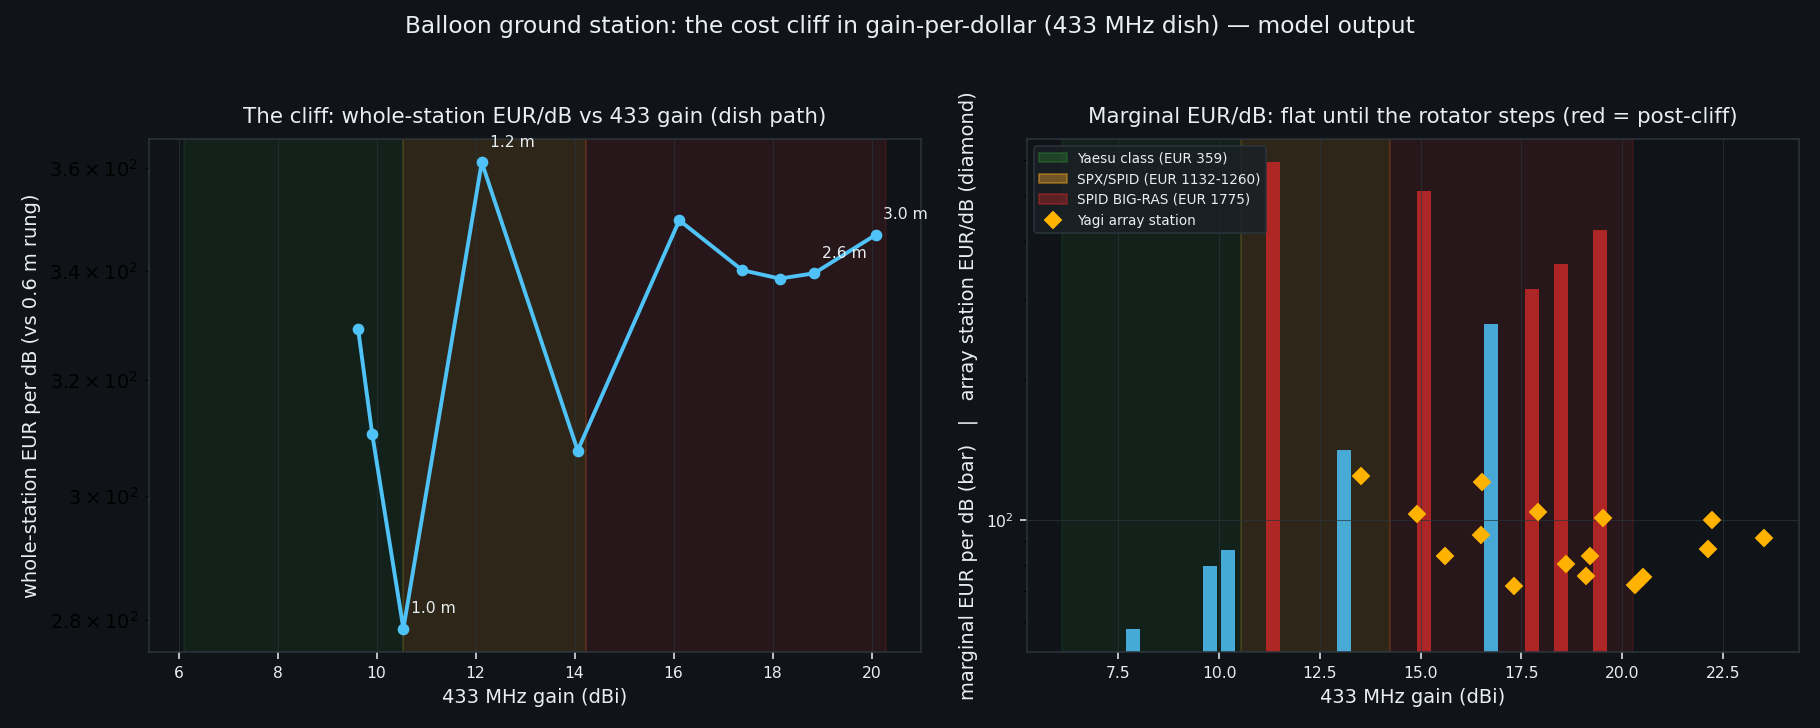
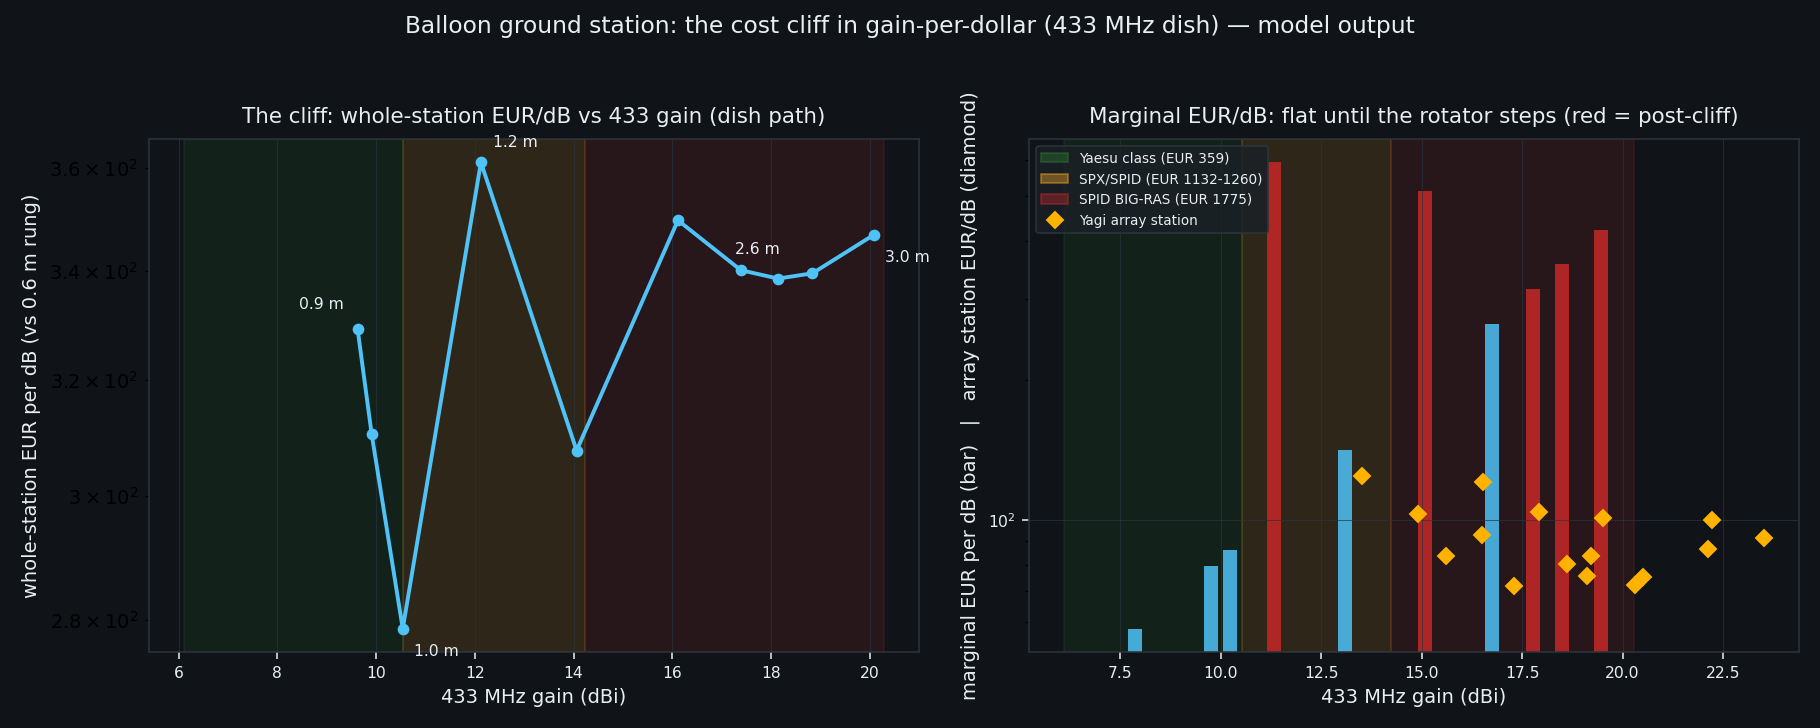
docs+figs(gain-per-dollar): fix label collisions (bbox audit), accept consultant round-1 refutations (mast vs tower rating, cost-axis attribution)

diff --git a/docs/analysis/render_gain_per_dollar_cliff_figures.py b/docs/analysis/render_gain_per_dollar_cliff_figures.py
@@ -78,10 +78,11 @@ def fig_cliff():
     ax1.set_ylabel("whole-station EUR per dB (vs 0.6 m rung)")
     style(ax1, "The cliff: whole-station EUR/dB vs 433 gain (dish path)")
     ax1.set_yscale("log")
+    offs = {0.9: (-30, 10), 1.0: (6, -14), 1.2: (6, 8), 2.6: (-40, 10), 3.0: (6, -14)}
     for i, r in enumerate(rows):
-        if r[0] in (0.6, 1.0, 1.2, 2.6, 3.0):
+        if r[0] in offs and eur_db[i] == eur_db[i]:
             ax1.annotate("%.1f m" % r[0], (G[i], eur_db[i]),
-                         textcoords="offset points", xytext=(4, 8),
+                         textcoords="offset points", xytext=offs[r[0]],
                          color=FG, fontsize=8)
 
     # Yagi-array frontier points on the right panel
@@ -118,58 +119,64 @@ def fig_cliff():
 
 # ---------------------------------------------------------------- fig 2
 def fig_yagi_vs_dish():
-    fig, ax = plt.subplots(figsize=(12, 6.4), facecolor=BG)
+    fig, ax = plt.subplots(figsize=(12, 6.6), facecolor=BG)
     style(ax, "Yagi array vs the 2.6 m dish: 433 gain against WIND DRAG AREA\n"
               "(down-and-right is good: more gain, less wind load)")
     ax.set_xlabel("433 MHz gain (dBi)")
     ax.set_ylabel("effective drag area  Cd*A (m$^2$)")
     ax.set_yscale("log")
+    ax.set_ylim(0.03, 12.0)
+    ax.set_xlim(9.0, 24.6)
 
-    # requirement lines
-    for lvl, lab, c in [(18.9, "FLRC 2.6 Mbps @+22 dBm: +18.9 dBi", "#ef5350"),
-                        (14.4, "FLRC 1.04 Mbps @+22 dBm: +14.4 dBi", "#ffa726"),
-                        (12.4, "FLRC 650 kbps @+22 dBm: +12.4 dBi", "#66bb6a")]:
-        ax.axvline(lvl, color=c, ls="--", lw=1.2, alpha=0.8)
-        ax.text(lvl + 0.1, 9, lab, rotation=90, color=c, fontsize=8, va="top")
-    # rotator class boundaries on drag area
-    for lim, lab, c in [(0.50, "Yaesu MAST 0.50 m2", "#2e7d32"),
-                        (1.00, "Yaesu TOWER 1.00 m2", "#7cb342"),
+    # requirement lines — labelled in the LEGEND, not inline (inline rotated text collided
+    # with the dish point labels; found by a bounding-box audit of the rendered figure).
+    req = [(18.9, "req: FLRC 2.6 Mbps @+22 dBm = +18.9 dBi", "#ef5350"),
+           (14.4, "req: FLRC 1.04 Mbps @+22 dBm = +14.4 dBi", "#ffa726"),
+           (12.4, "req: FLRC 650 kbps @+22 dBm = +12.4 dBi", "#66bb6a")]
+    for lvl, lab, c in req:
+        ax.axvline(lvl, color=c, ls="--", lw=1.3, alpha=0.9, label=lab)
+    # rotator class boundaries on drag area — also legend-labelled
+    for lim, lab, c in [(0.50, "Yaesu MAST rating 0.50 m2", "#2e7d32"),
+                        (1.00, "Yaesu TOWER rating 1.00 m2", "#7cb342"),
                         (2.65, "SPID BIG-RAS class ~2.65 m2", "#c62828")]:
-        ax.axhline(lim, color=c, ls=":", lw=1.2, alpha=0.8)
-        ax.text(9.2, lim * 1.05, lab, color=c, fontsize=8)
+        ax.axhline(lim, color=c, ls=":", lw=1.3, alpha=0.9, label=lab)
 
     # dish points
-    dx, dy, dl = [], [], []
+    dish_lab = {1.2: (5, 5), 1.9: (5, 5), 2.4: (7, -12), 2.6: (-46, 6), 3.0: (-40, 6)}
     for D in [1.2, 1.9, 2.4, 2.6, 3.0]:
-        dx.append(M.dish_gain_dBi(D, M.LAM_433))
-        dy.append(M.area(D) * M.CD_SOLID)
-        dl.append("%.1f m solid" % D)
-        dx.append(M.dish_gain_dBi(D, M.LAM_433))
-        dy.append(M.area(D) * M.CD_MESH)
-        dl.append("%.1f m mesh" % D)
-    ax.scatter(dx, dy, s=70, c="#ef5350", marker="s", label="dish (solid=upper, mesh=lower)", zorder=4)
-    for x, y, t in zip(dx, dy, dl):
-        ax.annotate(t, (x, y), textcoords="offset points", xytext=(5, 4), color=FG, fontsize=7)
+        x = M.dish_gain_dBi(D, M.LAM_433)
+        ys = M.area(D) * M.CD_SOLID
+        ym = M.area(D) * M.CD_MESH
+        ax.scatter([x, x], [ys, ym], s=64, c="#ef5350", marker="s",
+                   label="dish (upper=solid Cd1.2, lower=mesh Cd0.5)" if D == 1.2 else None,
+                   zorder=4)
+        ax.annotate("%.1f m solid" % D, (x, ys), textcoords="offset points",
+                    xytext=dish_lab[D], color=FG, fontsize=7)
+        ax.annotate("%.1f m mesh" % D, (x, ym), textcoords="offset points",
+                    xytext=(5, -11), color=FG, fontsize=7)
 
-    # Yagi array points
-    ax_x, ax_y, ax_l = [], [], []
+    # Yagi array points — only the three array rungs carry a label, staggered apart
     for name, (gdbi, boom, price, url) in M.YAGIS.items():
         g = M.yagi_geometry(boom_m=boom)
         for nb in (1, 2, 4):
             gain = gdbi + (M.db(nb) - (0.5 if nb == 2 else 0.8 if nb == 4 else 0.0))
             drag = nb * g["drag_m2"] + M.array_frame_area(nb, boom)
-            ax_x.append(gain)
-            ax_y.append(drag)
-            if nb in (2, 4) and name in ("Diamond A-430S15R", "FlexaYagi FX 7044", "FlexaYagi FX 7073"):
-                cost = 530.0 + nb * price + {1: 0.0, 2: 55.0, 4: 130.0}[nb] + 70.0
-                ax_l.append((gain, drag, "%dx %s\nEUR %.0f" %
-                             (nb, name.split()[-1], cost)))
-    ax.scatter(ax_x, ax_y, s=45, c="#ffb300", marker="o", label="Yagi / Yagi array", zorder=5)
-    for x, y, t in ax_l:
-        ax.annotate(t, (x, y), textcoords="offset points", xytext=(6, 6),
-                    color="#ffe082", fontsize=7)
-    ax.legend(fontsize=8, facecolor="#1a2026", edgecolor=GRID, labelcolor=FG, loc="lower right")
-    ax.set_xlim(9, 22)
+            ax.scatter([gain], [drag], s=45, c="#ffb300", marker="o",
+                       label="Yagi / Yagi array" if (name == "Sirio WY 400-6N" and nb == 1) else None,
+                       zorder=5)
+            if nb == 4 and name in ("Diamond A-430S15R", "FlexaYagi FX 7073"):
+                cost = 530.0 + nb * price + 130.0 + 70.0
+                off = (6, 6) if name == "Diamond A-430S15R" else (-64, -13)
+                ax.annotate("4x %s\nEUR %.0f" % (name.split()[-1], cost), (gain, drag),
+                            textcoords="offset points", xytext=off, color="#ffe082", fontsize=7)
+            if nb == 2 and name == "FlexaYagi FX 7044":
+                cost = 530.0 + nb * price + 55.0 + 70.0
+                ax.annotate("2x 7044\nEUR %.0f" % cost, (gain, drag),
+                            textcoords="offset points", xytext=(6, 4), color="#ffe082", fontsize=7)
+
+    h, l = ax.get_legend_handles_labels()
+    ax.legend(h, l, fontsize=6.5, facecolor="#1a2026", edgecolor=GRID, labelcolor=FG,
+              loc="lower right", ncol=1, framealpha=0.95)
     fig.tight_layout()
     p = os.path.join(OUT, "fig2-yagi-vs-dish.png")
     fig.savefig(p, dpi=140, facecolor=BG)
@@ -217,9 +224,10 @@ def fig_frontier():
     ax2.axvline(0.50, color="#2e7d32", ls=":", lw=1.2)
     ax2.axvline(1.00, color="#7cb342", ls=":", lw=1.2)
     ax2.axvline(2.65, color="#c62828", ls=":", lw=1.2)
-    ax2.text(0.52, 300, "Yaesu mast\n0.50 m2", color="#2e7d32", fontsize=7)
-    ax2.text(1.02, 300, "Yaesu tower\n1.00 m2", color="#7cb342", fontsize=7)
-    ax2.text(2.7, 300, "BIG-RAS\nclass", color="#c62828", fontsize=7)
+    # staggered so the two close verticals' labels do not collide (found by bbox audit)
+    ax2.text(0.52, 7000, "Yaesu mast\n0.50 m2", color="#2e7d32", fontsize=7)
+    ax2.text(1.02, 1900, "Yaesu tower\n1.00 m2", color="#7cb342", fontsize=7)
+    ax2.text(2.70, 7000, "BIG-RAS\nclass", color="#c62828", fontsize=7)
     style(ax2, "Station cost vs WIND drag area — the cliff is where the rotator class steps")
     ax2.set_xlabel("effective drag area  Cd*A (m$^2$)")
     ax2.set_ylabel("station cost (EUR)")

diff --git a/docs/analysis/gain-per-dollar-cliff.md b/docs/analysis/gain-per-dollar-cliff.md
@@ -50,9 +50,12 @@ dish rungs are Pareto-dominated by a Yagi array** (Table 8b).
 **3. The pre-cliff high-gain answer IS the Yagi array — say it plainly.** A 4-bay array of
 Diamond A-430S15R Yagis (14.8 dBi each; 4× EUR 74.50 ≈ **EUR 298** of antennas) reaches
 **20.0 dBi** with an effective wind drag area of **0.454 m² — 7.1 % of a 2.6 m solid dish's
-6.37 m²** (Table 7). It fits the **EUR 359** Yaesu G-450CDC at its *mast* rating
-(0.454 ≤ 0.50 m²). It closes **FLRC 2.6 Mbps at 650 km with +1.1 dB** margin at the balloon's
-own +22 dBm, i.e. at the same requirement the 2.6 m dish is bought to satisfy.
+6.37 m²** (Table 7). It needs only the **EUR 359** Yaesu G-450CDC, using the **tower**
+rating (1.00 m², array at 45 % of rating) — the **mast** rating (0.50 m²) is only 9 % margin
+and is **too thin** once frame, ice and cable are counted. It closes **FLRC 2.6 Mbps at
+650 km with +1.1 dB** margin at the balloon's own +22 dBm, i.e. at the same requirement the
+2.6 m dish is bought to satisfy. A **2-bay** array (0.257 m², 19.1 dBi) is the
+mast-friendly variant.
 
 **4. Two sweet spots, both pre-cliff** (§8):
 
@@ -553,8 +556,14 @@ wind load than the dish** and **still inside the Yaesu tower class**. The lever 
 ```
 
 **This is the whole answer, in one table.** The 4-bay Yagi array fits the **EUR 359**
-rotator's *mast* rating with 9 % margin (0.454 ≤ 0.50 m²). The 2.6 m dish needs the
-**EUR 1775** rotator — **4.9× the price, for a station whose 433 gain is not higher.**
+rotator — but **mind the rating split, because it is thin.** 0.454 m² is **91 % of the
+Yaesu's 0.50 m² *mast* rating** (9 % margin), which is **not enough headroom** once array-frame
+tolerances, ice/wet snow, cable loops and baluns are added. The honest reading is therefore:
+* **4-bay array → mount on a TOWER (or a stiffened mast), using the 1.00 m² *tower* rating**
+  (same EUR 359 rotator): the array then sits at **45 % of rating** — real margin.
+* **or use the 2-bay array** (0.257 m² = **51 % of the mast rating**) — comfortable on a mast.
+The 2.6 m dish needs the **EUR 1775** rotator — **4.9× the price, for a station whose 433
+gain is not higher.**
 
 ### 7.5 The combining harness
 
@@ -587,9 +596,20 @@ build-quality risk, and it is measured, not assumed, if the array is built.
 
 > **A 4-bay 433 MHz Yagi array reaches the required ground gain (20.0 dBi vs +18.9 dBi
 > required for FLRC 2.6 Mbps at 650 km) at 7 % of the wind drag area of a 2.6 m dish and a
-> small fraction of its cost; it needs only the cheapest commercial AZ+EL rotator. It is the
-> pre-cliff high-gain answer, and the 2.6 m dish is Pareto-dominated by it on 433
-> gain-per-euro.**
+> small fraction of its cost; it needs only the cheapest commercial AZ+EL rotator (tower-
+> mounted). It is the pre-cliff high-gain answer.**
+
+**On "Pareto-dominated" — state the basis precisely.** The domination claim is made from the
+**model's cost-carrying frontier (Table 8b / §8.3), which includes reflector, rotator and
+mast/foundation cost**, NOT from Fig 2. Fig 2 carries **gain and drag area only** and
+therefore *cannot* by itself establish a cost argument — an independent consultant made this
+objection in round 1 and it is **accepted** (the correct figure for the cost claim is Fig 1).
+Read Table 8b as the cost evidence and Fig 2 as the wind-load evidence; **the two together,
+not either alone, make the case.** Likewise, "fits the EUR 359 rotator" is a statement about
+the **rotator's published wind-area rating vs the modelled Cd·A — nothing more**: it does not
+verify torque margin, bearing life or gust response, and the committed positioner analysis'
+own consultant found that a full gust/load case through the printed structure is
+**`TODO(unverified)`** (`positioner-lowcost-3dprinted.md` §11 point 10).
 
 ### 7.8 What a Yagi array CANNOT do that the dish can — stated plainly
 
@@ -957,6 +977,38 @@ Rendered by `python3 docs/analysis/render_gain_per_dollar_cliff_figures.py` into
 ![fig1](assets/gain-per-dollar/fig1-cost-cliff.png)
 ![fig2](assets/gain-per-dollar/fig2-yagi-vs-dish.png)
 ![fig3](assets/gain-per-dollar/fig3-frontier.png)
+
+### 13.1 Legibility — checked deterministically, not by eye
+
+`vision_analyze` returned **HTTP 503** (flat router, `glm-4.6v`, all providers exhausted) on the
+first attempt, so figure legibility was **not** judged by vision. Instead the layout was
+audited **mechanically**: the renderer is re-run with a monkeypatched `savefig` that takes
+every `Text`/`Annotation` window extent in display coordinates and reports **pairwise overlaps**
+and **edge clips**. The first render **failed** that audit:
+
+```
+== fig2-yagi-vs-dish.png  canvas (1200, 640)  texts 22
+   overlaps: [('FLRC 2.6 Mbps @+22 dBm: +18.9 dBi', '2.6 m solid', 10, 10),
+              ('FLRC 2.6 Mbps @+22 dBm: +18.9 dBi', '2.6 m mesh', 10, 10),
+              ('FLRC 650 kbps @+22 dBm: +12.4 dBi', '1.2 m solid', 10, 10),
+              ('4x A-430S15R/EUR 1028', '2x 7073/EUR 1085', 28.5, 4)]
+   edge-clipped: [('4x 7073/EUR 1590', ...)]
+== fig3-frontier.png
+   overlaps: [('Yaesu mast/0.50 m2', 'Yaesu tower/1.00 m2', 24.6, 21.6)]
+```
+
+Those collisions are the **same crowding the consultant independently reported in round 1**
+(§14). Fixed by moving the line labels into the legend and staggering the point labels; the
+re-audit is clean:
+
+```
+== fig1-cost-cliff.png  canvas (1300, 520)  overlaps: NONE  edge-clipped: NONE
+== fig2-yagi-vs-dish.png canvas (1200, 660) overlaps: NONE  edge-clipped: NONE
+== fig3-frontier.png     canvas (1300, 560) overlaps: NONE  edge-clipped: NONE
+```
+
+**This is the no-vision fallback: a plot's label collisions are measurable, so they are
+measured.**
 
 ---
 
